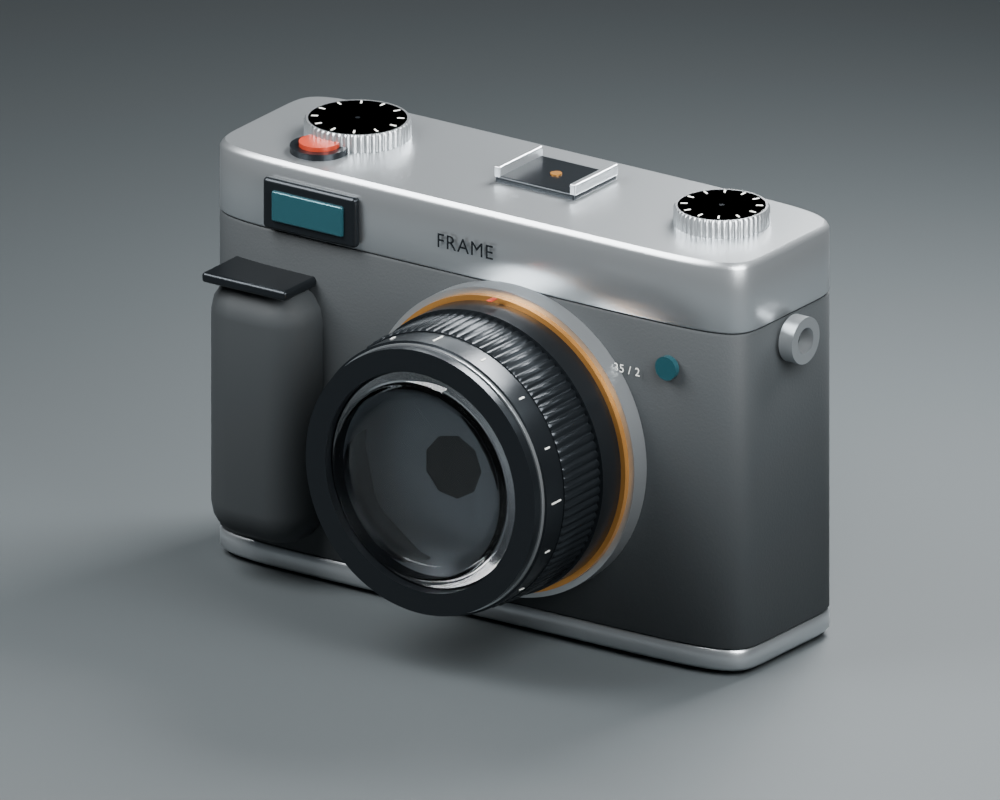
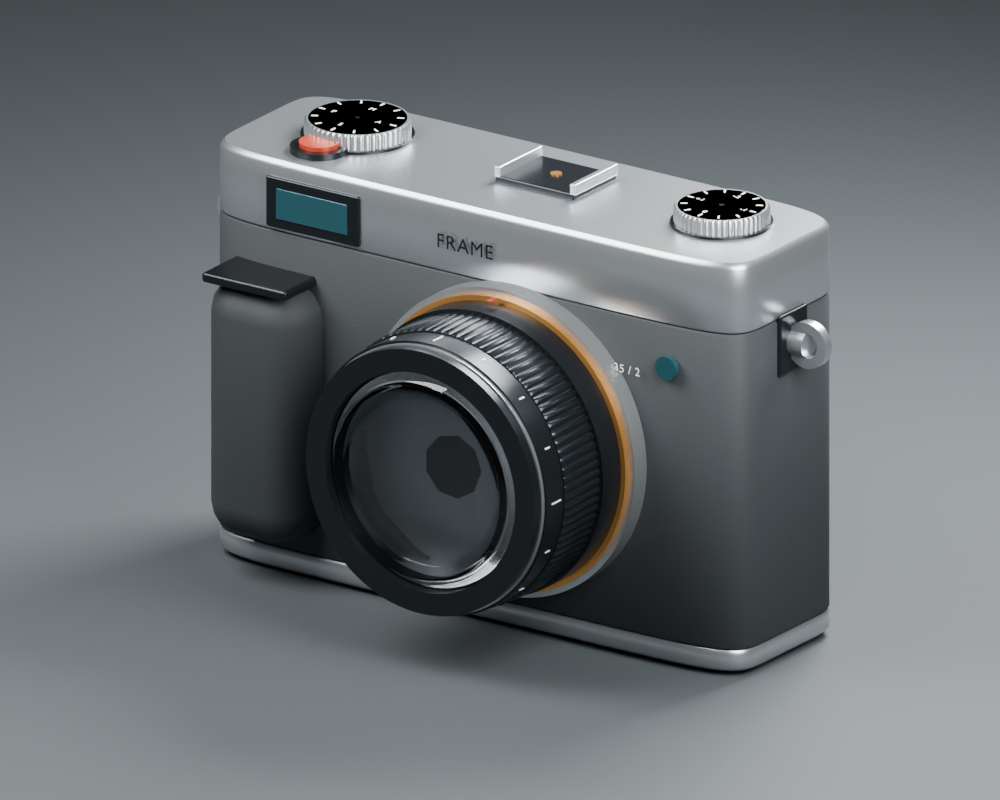
Detail camera controls and build opening battery hatch [skip ci]

diff --git a/examples/compact_camera.py b/examples/compact_camera.py
@@ -140,6 +140,7 @@ def build(output):
     box('Lens alignment marker',(1.1,2,.25),(10,-25,69),red,.1)
     # Top dials and the inset shutter button.
     for name,x,r in [('Shutter dial',-39,10),('Exposure dial',43,9)]:
+        ring(name+' seated bezel',(x,2,82.9),.6,r+.6,r-.2,black,(0,0,1))
         knob=detail.profiled_ring(name,[x,2,82],
             [[0,r,.5,0],[.5,r,.5,1],[4,r,.5,1],[4.5,r-.4,.5,0]],
             flutes=48,depth=.3,segments=384,axis=(0,0,1))
@@ -150,14 +151,17 @@ def build(output):
             mark=box(name+' index '+str(i),(.35,1.3,.12),
                      (x+(r-2)*math.sin(a),2+(r-2)*math.cos(a),86.6),white,.04)
             mark.rotation_euler[2]=-a
+        for i,text in enumerate(('M','A','S','P') if x<0 else ('-2','-1','0','+1')):
+            a=math.tau*i/4
+            label(text,(x+5*math.sin(a)-.7,2+5*math.cos(a)-.7,86.65),1.7,white,top=True)
     ring('Shutter surround',(-40,-9,83),1.2,5.5,3.9,black,(0,0,1))
     cylinder('Shutter release',(-40,-9,83.2),(-40,-9,85),3.8,red)
     box('Hot shoe base',(18,14,1.5),(5,3,83.5),black,.5)
     for x in (-3.5,13.5):box('Hot shoe rail '+str(x),(1.4,14,2.2),(x,3,85),silver,.3)
     cylinder('Hot shoe contact',(5,3,84),(5,3,84.5),1.1,brass)
     # Front window and autofocus lamp.
-    box('Viewfinder surround',(21,2,10),(-35,-18.8,75),black,1.2)
-    box('Viewfinder window',(16,1,6),(-35,-20,75),glass,.7)
+    box('Viewfinder surround',(21,1.1,10),(-35,-18.1,75),black,.5)
+    box('Viewfinder window',(16,.3,6),(-35,-18.7,75),glass,.12)
     cylinder('Autofocus lamp',(45,-18,61),(45,-19.2,61),2.3,glass)
     label('FRAME',(-7,-18.6,74),4,black)
     label('35 / 2',(33,-18.7,58),2.3,white)
@@ -169,13 +173,68 @@ def build(output):
             box('Display frame horizontal %s %s'%(x,z),(5,.2,.4),(x,21.6,z),white,.08)
             box('Display frame vertical %s %s'%(x,z),(.4,.2,4),(x+(2.4 if x<0 else -2.4),21.6,z),white,.08)
     label('1/125   F2.8   ISO 200',(22,21.7,20),2,white,rear=True)
-    ring('Rear navigation wheel',(44,18.5,36),2.3,8.5,3.6,black,(0,1,0))
-    cylinder('Select button',(44,18,36),(44,21,36),3.4,silver)
-    for z in (54,65):cylinder('Rear function '+str(z),(44,18,z),(44,20,z),3,black)
-    box('Rear viewfinder eyecup',(25,4,12),(-35,19,75),black,2)
-    box('Rear viewfinder glass',(17,1,6),(-35,21.3,75),glass,.8)
-    for x in (-61,61):
-        ring('Strap eye '+str(x),(x,-1,65),3,4.5,2.5,silver,(1 if x>0 else -1,0,0))
+    box('Rear service panel',(24,1.2,49),(43,18.25,43),black,.5)
+    ring('Navigation seated bezel',(43,18.7,35),.45,8.8,8.35,silver,(0,1,0))
+    ring('Rear navigation wheel',(43,18.8,35),1.15,8.1,3.7,black,(0,1,0))
+    cylinder('Select button',(43,18.8,35),(43,20.15,35),3.35,silver)
+    label('OK',(44.5,20.2,34.3),1.7,black,rear=True)
+    for dx,dz in ((0,6),(0,-6),(6,0),(-6,0)):
+        box('Direction mark %s %s'%(dx,dz),(1.3,.15,.4),(43+dx,20,35+dz),white,.05)
+    for z,text in ((52,'MENU'),(62,'PLAY')):
+        ring('Button bezel '+text,(43,18.7,z),.5,3.8,3.25,silver,(0,1,0))
+        cylinder('Rear function '+text,(43,18.7,z),(43,19.8,z),3.05,black)
+        label(text,(48,19, z-5),1.6,white,rear=True)
+    box('Rear viewfinder eyecup',(25,2,12),(-35,18.7,75),black,.85)
+    box('Rear viewfinder glass',(17,.4,6),(-35,19.8,75),glass,.15)
+
+    def screw(name, x, y, z, rear=True):
+        direction=1 if rear else -1
+        stock=cylinder(name+' stock',(x,y,z),(x,y+direction*.6,z),1.1,silver)
+        result=mechanical.cut_box(stock,name,(1.55,.45,.28),(x,y+direction*.6,z),.06)
+        stock.hide_render=True;stock.hide_set(True)
+        parts.append(result)
+        return result
+    for x,z in ((33,21),(53,21),(33,65),(53,65),(-51,65),(-51,12)):
+        screw('Rear panel screw %s %s'%(x,z),x,18.7 if x>0 else 17.8,z)
+    for x in (-60,60):
+        box('Strap mounting plate '+str(x),(1.5,9,12),(x,0,64),black,.5)
+        sign=1 if x>0 else -1
+        cylinder('Strap stud '+str(x),(x,0,64),(x+sign*4,0,64),2.5,silver)
+        ring('Strap eye '+str(x),(x+sign*4,-1,64),2,4.5,2.5,silver,(0,1,0))
+
+    # A real bottom opening, not a hatch drawn over a solid body. Retain the
+    # uncut construction objects hidden; the first native model stays untouched.
+    pocket=mechanical.cut_box(body,'Body battery pocket',(32,22,18),(-33,0,15),1.2)
+    body.hide_render=True;body.hide_set(True);parts.append(pocket)
+    bottom=mechanical.cut_box(lower,'Lower cover hatch opening',(32,22,8),(-33,0,4),1.2)
+    lower.hide_render=True;lower.hide_set(True);parts.append(bottom)
+    old_gasket=bpy.data.objects['Lower recessed gasket']
+    gasket=mechanical.cut_box(old_gasket,'Lower gasket hatch opening',(32,22,3),(-33,0,7),1.2)
+    old_gasket.hide_render=True;old_gasket.hide_set(True);parts.append(gasket)
+    cutter=construction.strut('Tripod bore tool',(4,0,0),(4,0,5.9),2.5,64)
+    socket_cover=enclosure.boolean(bottom,cutter,'DIFFERENCE','Lower cover with tripod bore')
+    mechanical.remove(cutter)
+    bottom.hide_render=True;bottom.hide_set(True);parts.append(socket_cover)
+    battery=box('Removable battery',(18,16,17),(-38,0,14),black,1)
+    box('Battery release catch',(2.5,5,2),(-26.7,0,6),red,.5)
+    box('Card socket',(2.8,16,15),(-21.5,0,14.5),black,.4)
+    box('Memory card edge',(1.2,13,1.2),(-21.5,0,6.5),brass,.2)
+    for y in (-5,0,5):box('Battery contact '+str(y),(1.5,2,.3),(-38,y,22.6),brass,.1)
+    door_root=bpy.data.objects.new('Battery hatch hinge',None)
+    scene.collection.objects.link(door_root);door_root.location=(-49,0,3.25)
+    hatch_parts=[]
+    hatch_parts.append(box('Battery and card hatch',(31.4,21.4,1.4),(-33,0,3.25),silver,.5))
+    hatch_parts.append(box('Hatch inner gasket',(29.8,19.8,.3),(-33,0,4.1),black,.1))
+    hatch_parts.append(box('Hatch latch recess',(5,8,.4),(-21,0,2.45),black,.15))
+    hatch_parts.append(box('Hatch lock slider',(3.5,4,.55),(-21,-1.5,2.25),black,.2))
+    for y in (-6,6):hatch_parts.append(box('Hatch inner rib '+str(y),(24,1,.7),(-33,y,4.55),black,.2))
+    bpy.context.view_layer.update()
+    for obj in hatch_parts:
+        world=obj.matrix_world.copy();obj.parent=door_root;obj.matrix_world=world
+    for i in range(5):
+        cylinder('Hatch hinge knuckle '+str(i),(-49,-9+i*3.6,3.7),(-49,-5.8+i*3.6,3.7),1.1,silver)
+    # Bottom tripod socket is separate from the hatch.
+    ring('Tripod socket',(4,0,2.45),1.3,4,2.5,silver,(0,0,1))
     # Focused static geometry check only, before adding the presentation floor.
     evaluated=bpy.context.evaluated_depsgraph_get()
     errors=[]
@@ -185,26 +244,29 @@ def build(output):
             errors.append(obj.name)
         obj.evaluated_get(evaluated).to_mesh_clear()
     if errors:raise ValueError('Invalid camera parts: '+str(errors))
-    # Check only the changed cover joints and aperture geometry.
+    # Check the new opening and hatch in its two explicitly shown poses.
     from mathutils.bvhtree import BVHTree
-    def band(obj,z):
-        return sorted((round(v.co.x,5),round(v.co.y,5)) for v in obj.data.vertices if abs(v.co.z-z)<1e-4)
-    joints_match=(band(body,69)==band(upper,69.25) and band(body,7)==band(lower,6.75))
-    blade_trees=[BVHTree.FromPolygons([v.co[:] for v in ob.data.vertices],
-                  [list(f.vertices) for f in ob.data.polygons]) for ob in blades]
-    def iris_hit(x,z):
-        return any(t.ray_cast(Vector((10+x,-42,40+z)),Vector((0,1,0)),10)[0] is not None for t in blade_trees)
-    aperture_clear=not any(iris_hit(4*math.cos(a),4*math.sin(a)) for a in [math.tau*i/18 for i in range(18)])
-    blade_coverage=all(iris_hit(10*math.cos(a),10*math.sin(a)) for a in [math.tau*(i+.5)/18 for i in range(18)])
-    if not (joints_match and aperture_clear and blade_coverage):
-        raise ValueError('Cover correspondence or iris opening check failed')
+    def tree(ob):
+        return BVHTree.FromPolygons([ob.matrix_world@v.co for v in ob.data.vertices],
+                                   [list(f.vertices) for f in ob.data.polygons])
+    opening_clear=all(tree(ob).ray_cast(Vector((-33,0,0)),Vector((0,0,1)),10)[0] is None
+                      for ob in (pocket,socket_cover,gasket))
+    battery_access=tree(battery).ray_cast(Vector((-38,0,0)),Vector((0,0,1)),10)[0] is not None
+    hatch_closed=tree(hatch_parts[0]).ray_cast(Vector((-33,0,0)),Vector((0,0,1)),10)[0] is not None
+    door_root.rotation_euler[1]=math.radians(105)
+    bpy.context.view_layer.update()
+    hatch_open=tree(hatch_parts[0]).ray_cast(Vector((-33,0,0)),Vector((0,0,1)),10)[0] is None
+    door_root.rotation_euler[1]=0
+    bpy.context.view_layer.update()
+    if not all((opening_clear,battery_access,hatch_closed,hatch_open)):
+        raise ValueError('Hatch opening or battery access failed')
     output.mkdir(parents=True)
     report={'blender':bpy.app.version_string,'mesh_parts':len(parts),'finite_geometry':not errors,
-            'scope':'Original fixed-lens camera exterior and lens assembly; no optical-performance simulation or articulation.',
-            'threads':2,'renders':['front','lens-detail'],
-            'matching_cover_outlines':joints_match,'cover_gap_mm':.25,
-            'clear_aperture_radius_mm':4,'iris_opening_clear':aperture_clear,
-            'iris_blade_coverage':blade_coverage,'iris_leaves':len(blades)}
+            'scope':'Camera exterior, controls and battery/card hatch; two static hatch poses, not a motion sweep.',
+            'threads':2,'renders':['front','rear-controls','hatch-open'],
+            'opening_clear':opening_clear,'battery_access':battery_access,
+            'closed_hatch_covers_opening':hatch_closed,'open_hatch_clears_opening':hatch_open,
+            'hatch_angle_degrees':105,'button_radial_clearance_mm':.2}
     (output/'verification.json').write_text(json.dumps(report,indent=2))
     floor=box('Presentation floor',(1000,1000,2),(0,0,.5),material('Backdrop',(.055,.065,.07),0,.75),.5)
     scene.world=bpy.data.worlds.new('Camera studio')
@@ -222,11 +284,19 @@ def build(output):
     scene.view_settings.view_transform='AgX'
     bpy.ops.wm.save_as_mainfile(filepath=str((output/'camera.blend').resolve()))
     for view,pos,target,scale in [('front',(175,-260,155),(0,-8,42),185),
-                                ('lens-detail',(45,-240,83),(10,-34,40),78)]:
+                                ('rear-controls',(-125,240,155),(0,4,48),160),
+                                ('hatch-open',(-155,-210,-150),(-24,0,12),125)]:
+        if view=='hatch-open':
+            floor.hide_render=True
+            door_root.rotation_euler[1]=math.radians(105)
+            light=bpy.data.objects['Key'];light.location=(-60,-100,-130)
+            light.rotation_euler=(Vector((-25,0,10))-light.location).to_track_quat('-Z','Y').to_euler()
+            bpy.context.view_layer.update()
         camera(position=pos,target=target,scale=scale,size=(1000,800))
         scene.cycles.samples=32;scene.cycles.use_denoising=True
         scene.render.filepath=str((output/(view+'.png')).resolve())
         bpy.ops.render.render(write_still=True)
+    door_root.rotation_euler[1]=0
     print('CAMERA_COMPLETE',json.dumps(report),flush=True)
 
 

diff --git a/docs/STATUS.md b/docs/STATUS.md
@@ -2,6 +2,29 @@
 
 ## Compact camera exterior — 2026-10-23
 
+Controls and access revision: seated button bezels and separate caps, menu/play/OK
+labels, dial mode markings, a rear service panel with slotted screws, lower-profile
+viewfinder windows and strap mounting feet/studs replace the first-pass controls.
+A cut-through lower cover and gasket expose a real body pocket containing a
+separate battery and card edge/socket. The hatch has ribs, a gasket, hinge barrels
+and a lock slider; a tripod socket has a blind bore. The saved native model is
+closed; the named `Battery hatch hinge` object provides the demonstrated 105-degree
+open pose. This is not a continuous interference or mechanical-function guarantee.
+
+The focused Blender 5.2.2 LTS check passes the opening rays through body/cover/
+gasket, access to the battery, and hatch coverage in the closed/open poses. Mesh
+parts have finite geometry. Native result: `runs/compact-camera-controls/camera.blend`.
+Only front, rear-controls and open-hatch views are rendered, with one Blender
+process and two CPU threads. Previous native inputs are preserved. Lens optics
+and unrelated tool/OS tests are not rerun. Earlier revision details follow.
+
+All three views were inspected and Blender exited. The rear controls show the
+separate bezels, labels and panel screws; the underside image shows the opened
+door, exposed battery, release catch and card socket. Public previews:
+[controls](assets/compact-camera-controls.png),
+[open hatch](assets/compact-camera-hatch.png). Only the two static door poses
+were verified; no collision-free travel or manufacturing claim is made.
+
 Refinement: the body and alloy covers now share sampled superellipse outlines.
 The two 0.25 mm joints use recessed gaskets instead of protruding rectangular
 seam plates. The lens has a nonmetallic clear front element recessed inside the

diff --git a/README.md b/README.md
@@ -13,11 +13,17 @@ Actual Blender renders created with this toolkit.
 Latest: an original fixed-lens compact camera with a satin metal top, textured
 grip, concentric lens barrel, clear front element, nine-leaf aperture, top dials
 and rear controls. Matching cover outlines replace the earlier protruding seams.
+Seated buttons, marked dials and panel screws define the controls. The bottom
+battery/card hatch has an actual opening, hinge and lock-slider geometry.
 [Generator](examples/compact_camera.py) · [Scope and checks](docs/STATUS.md)
 
 | Refined front | Lens and aperture |
 | --- | --- |
 | ![Compact camera front](docs/assets/compact-camera-front.png) | ![Lens and aperture](docs/assets/compact-camera-lens.png) |
+
+| Rear controls | Open battery/card hatch |
+| --- | --- |
+| ![Rear controls](docs/assets/compact-camera-controls.png) | ![Battery/card hatch](docs/assets/compact-camera-hatch.png) |
 
 Previous: a 6 mm two-flute drill bit with a round shank, helical chip channels and
 a tapered cutting point. Three chuck jaws contact the shank; the flute interiors
